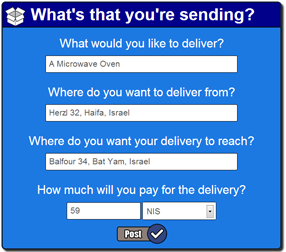
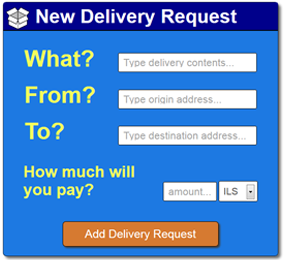
Fixed some buttons, images for how_it_works.

diff --git a/app/assets/stylesheets/profile.css.scss b/app/assets/stylesheets/profile.css.scss
@@ -200,6 +200,8 @@
   font-size:18px;
   margin-top: 10px;
   text-align: center;
+  -moz-box-shadow: 3px 3px 3px #3d3d3d; /* Old Firefox */
+  box-shadow: 3px 3px 3px #3d3d3d;
   background-repeat: no-repeat;
   background-position: bottom left;
   border:1px solid;
@@ -226,6 +228,8 @@
   background-color: #d67a31;
   background-repeat: no-repeat;
   background-position: bottom left;
+  -moz-box-shadow: 3px 3px 3px #3d3d3d; /* Old Firefox */
+  box-shadow: 3px 3px 3px #3d3d3d;
   border:1px solid;
   border-radius:4px;
   -moz-border-radius:10px; /* Old Firefox */

diff --git a/app/assets/stylesheets/new_request_suggest.css.scss b/app/assets/stylesheets/new_request_suggest.css.scss
@@ -125,8 +125,8 @@ fieldset {
   background-color: #1d79e2;
   -moz-box-shadow: 5px 5px 5px #6b6b6b; /* Old Firefox */
   box-shadow: 5px 5px 5px #6b6b6b;
-  border:solid 3px;
-  border-radius:10px;
+  border:solid 1px;
+  border-radius:8px;
   -moz-border-radius:10px; /* Old Firefox */
   padding-bottom: 10px;
   color: #ffffff;
